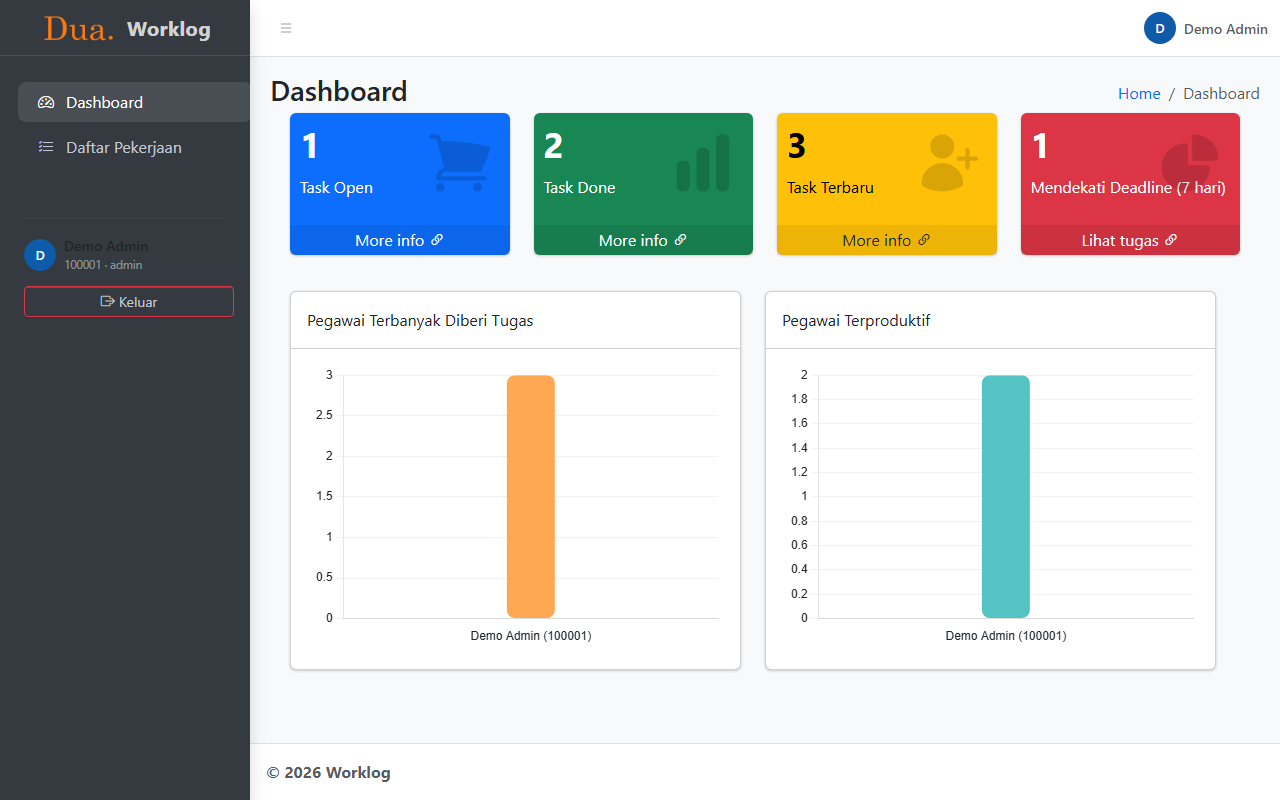
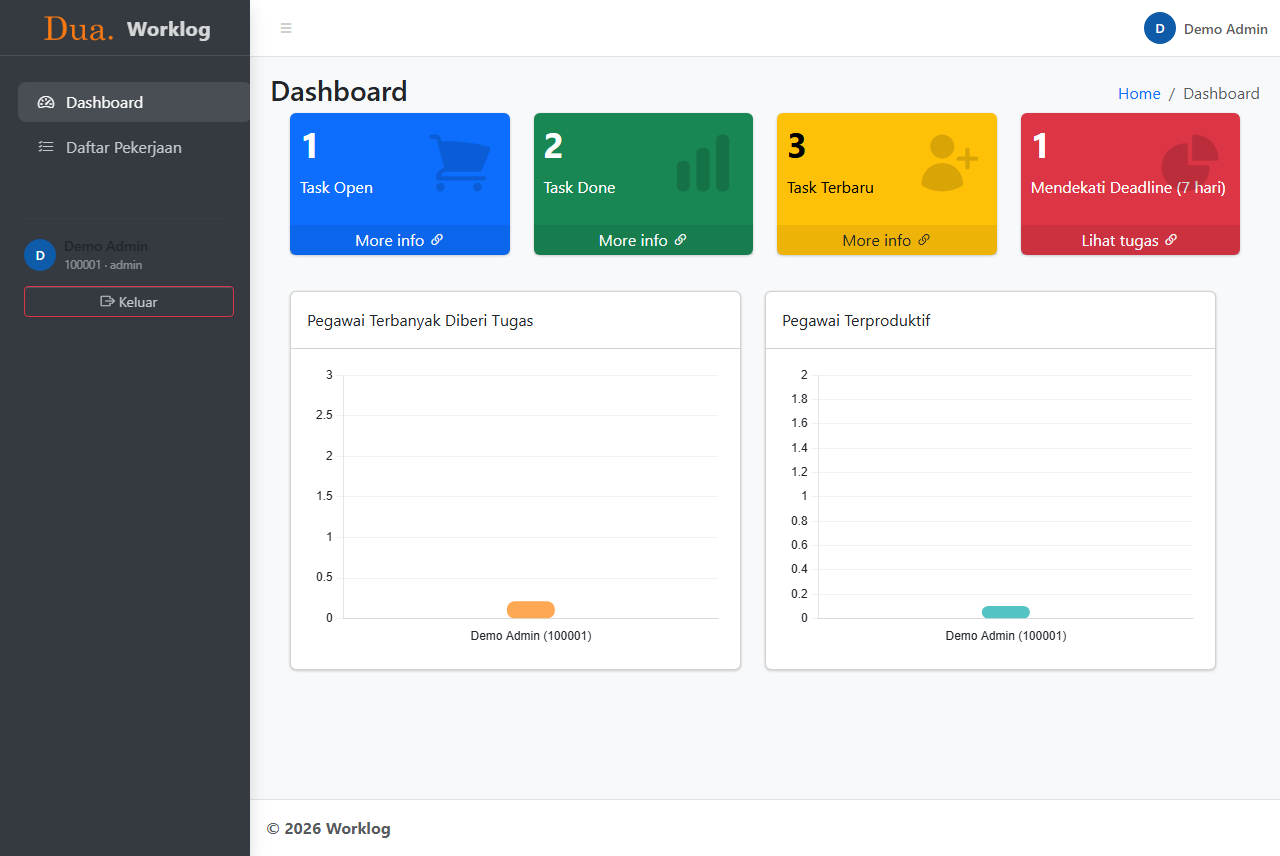
ui: micro-interaction CSS pada sidebar, kartu statistik, kalender, dan fokus aksesibilitas

diff --git a/assets/css/style.css b/assets/css/style.css
@@ -10,6 +10,18 @@
   .container-fluid { padding-left: 0.75rem; padding-right: 0.75rem; }
 }
 
+/* =========================================================
+ * Micro-interaction (CSS-only, transform/opacity agar tetap 60fps)
+ * Semua efek dimatikan otomatis bagi pengguna yang memilih
+ * "reduce motion" di sistem operasinya.
+ * ========================================================= */
+@media (prefers-reduced-motion: reduce) {
+  *, *::before, *::after {
+    transition: none !important;
+    animation: none !important;
+  }
+}
+
 /* ---------- Sidebar ---------- */
 /* Batalkan `max-height: 100vh` dari AdminLTE: sidebar sticky hanya
  * menutup setinggi viewport sehingga area di bawahnya (halaman di-scroll)
@@ -40,14 +52,27 @@
   letter-spacing: 0.02em;
 }
 
-/* Item menu: sedikit radius dan jarak agar hover/active lebih jelas */
+/* Item menu: radius, jarak, dan micro-interaction hover.
+ * Menu geser tipis ke kanan + ikon membesar sedikit saat hover —
+ * umpan balik orientasi tanpa animasi berat. */
 .sidebar-menu .nav-link {
   border-radius: 8px;
   margin: 2px 10px;
-  transition: background-color 0.15s ease;
+  transition: background-color 0.15s ease, transform 0.18s ease;
+}
+.sidebar-menu .nav-icon {
+  transition: transform 0.18s ease;
 }
 .sidebar-menu .nav-link.active {
   background-color: rgba(255, 255, 255, 0.08);
+}
+@media (prefers-reduced-motion: no-preference) {
+  .sidebar-menu .nav-link:hover {
+    transform: translateX(3px);
+  }
+  .sidebar-menu .nav-link:hover .nav-icon {
+    transform: scale(1.15);
+  }
 }
 
 /* Blok profil pengguna di bawah menu */
@@ -108,6 +133,49 @@
   /* list view: sembunyikan kolom waktu yang tidak terpakai */
   #calendar .fc .fc-list-event-time { display: none; }
   #calendar .fc .fc-list-table td.fc-list-event-time { padding: 0; width: 0; }
+}
+
+/* ---------- Kartu dashboard ---------- */
+/* Hover kartu statistik: naik tipis, tanpa shadow besar — tetap flat */
+.small-box {
+  transition: transform 0.18s ease;
+}
+@media (prefers-reduced-motion: no-preference) {
+  .small-box:hover {
+    transform: translateY(-2px);
+  }
+}
+/* Footer kartu (More info / Lihat tugas) memberi umpan balik saat hover */
+.small-box .small-box-footer {
+  transition: letter-spacing 0.15s ease;
+}
+.small-box .small-box-footer:hover {
+  letter-spacing: 0.03em;
+}
+
+/* Tombol: umpan balik tekan tanpa menggeser layout */
+@media (prefers-reduced-motion: no-preference) {
+  .btn:active {
+    transform: scale(0.97);
+  }
+}
+
+/* ---------- Kalender (FullCalendar) ---------- */
+/* Event kalender: sedikit menggelap saat hover — target klik terasa hidup */
+#calendar .fc .fc-daygrid-event {
+  transition: background-color 0.15s ease, box-shadow 0.15s ease;
+}
+#calendar .fc .fc-daygrid-event:hover {
+  box-shadow: 0 1px 4px rgba(0, 0, 0, 0.15);
+}
+
+/* Fokus keyboard selalu jelas (aksesibilitas) — jangan kunci via outline:none */
+.nav-link:focus-visible,
+.btn:focus-visible,
+.form-control:focus,
+.form-select:focus {
+  outline: 2px solid var(--bs-primary, #0d6efd);
+  outline-offset: 2px;
 }
 
 /* ---------- Chart dashboard (Chart.js) ---------- */
